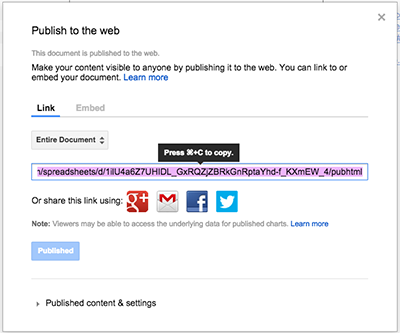
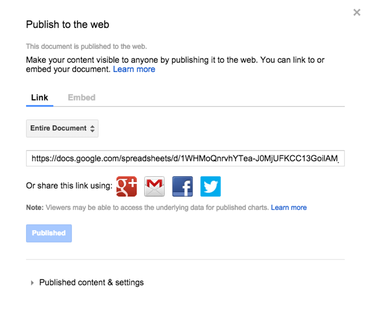
update step 2 'make' instructions to reflect what people actually see on Google now

diff --git a/website/templates/_make.html b/website/templates/_make.html
@@ -24,11 +24,13 @@
     <div class="small-10 medium-5 columns">
       <h4>Publish to the web</h4>
       <p><img class="polaroid" src="{{ static_url }}/img/make/publish_to_web_small.png" alt="Publish to Web"></p>
+      <p>Under the File menu, select <em>&ldquo;Publish to the Web.&rdquo;</em></p>
+      <p>In the next window, click the blue "publish" button. When asked, "Are you sure…?" click OK.</p>
+      <p>Now, copy the URL that appears in the center of the window. You'll use this in the next step.</p>
     </div>
     <div class="small-12 medium-6 columns">
-        <p><img class="polaroid" src="{{ static_url }}/img/make/publish_to_web_url_small.png" alt="Publish to Web"></p>
-        <p>Under the File menu, select <em>&ldquo;Publish to the Web.&rdquo;</em></p>
-        <p>In the next window, check <em>&ldquo;Automatically republish when changes are made.&rdquo;</em> Uncheck all other boxes. Click <em>&ldquo;start publishing.&rdquo;</em> This will give you the URL to embed in your HTML file.</p>
+        <p><img class="polaroid" src="{{ static_url }}/img/make/publish_to_web_button_small.png" alt="Publish to Web 2"></p>
+        <p><img class="polaroid" src="{{ static_url }}/img/make/publish_to_web_url_small.png" alt="Publish to Web 3"></p>
       </div>
     </div>
   </div>
